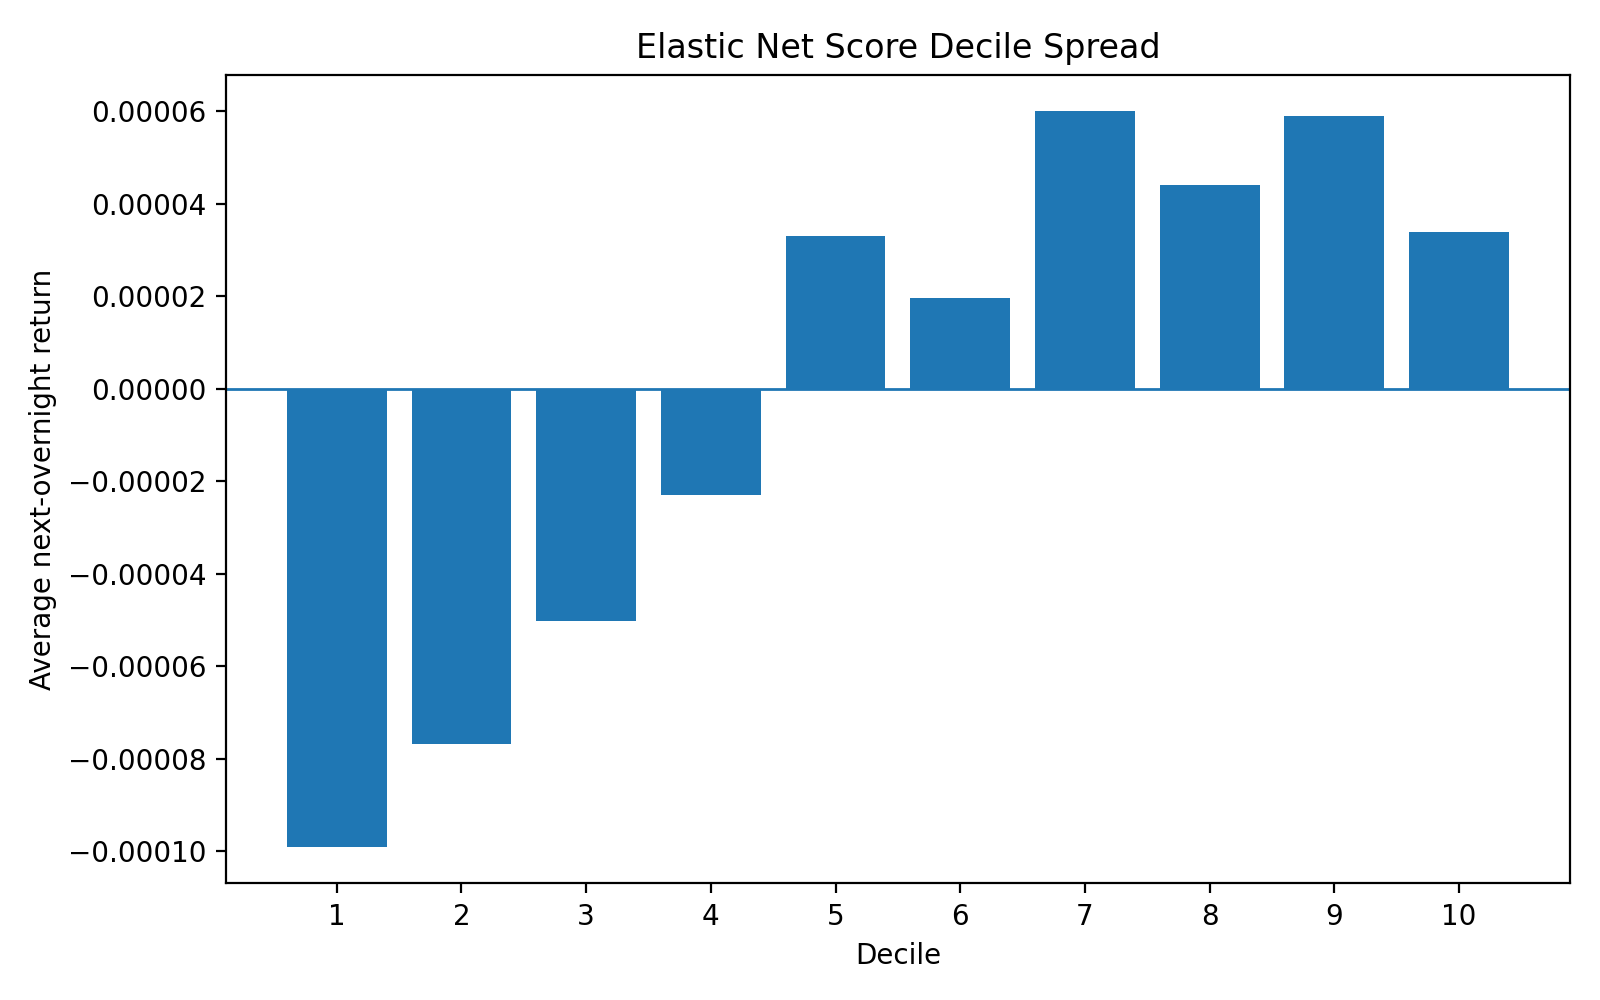
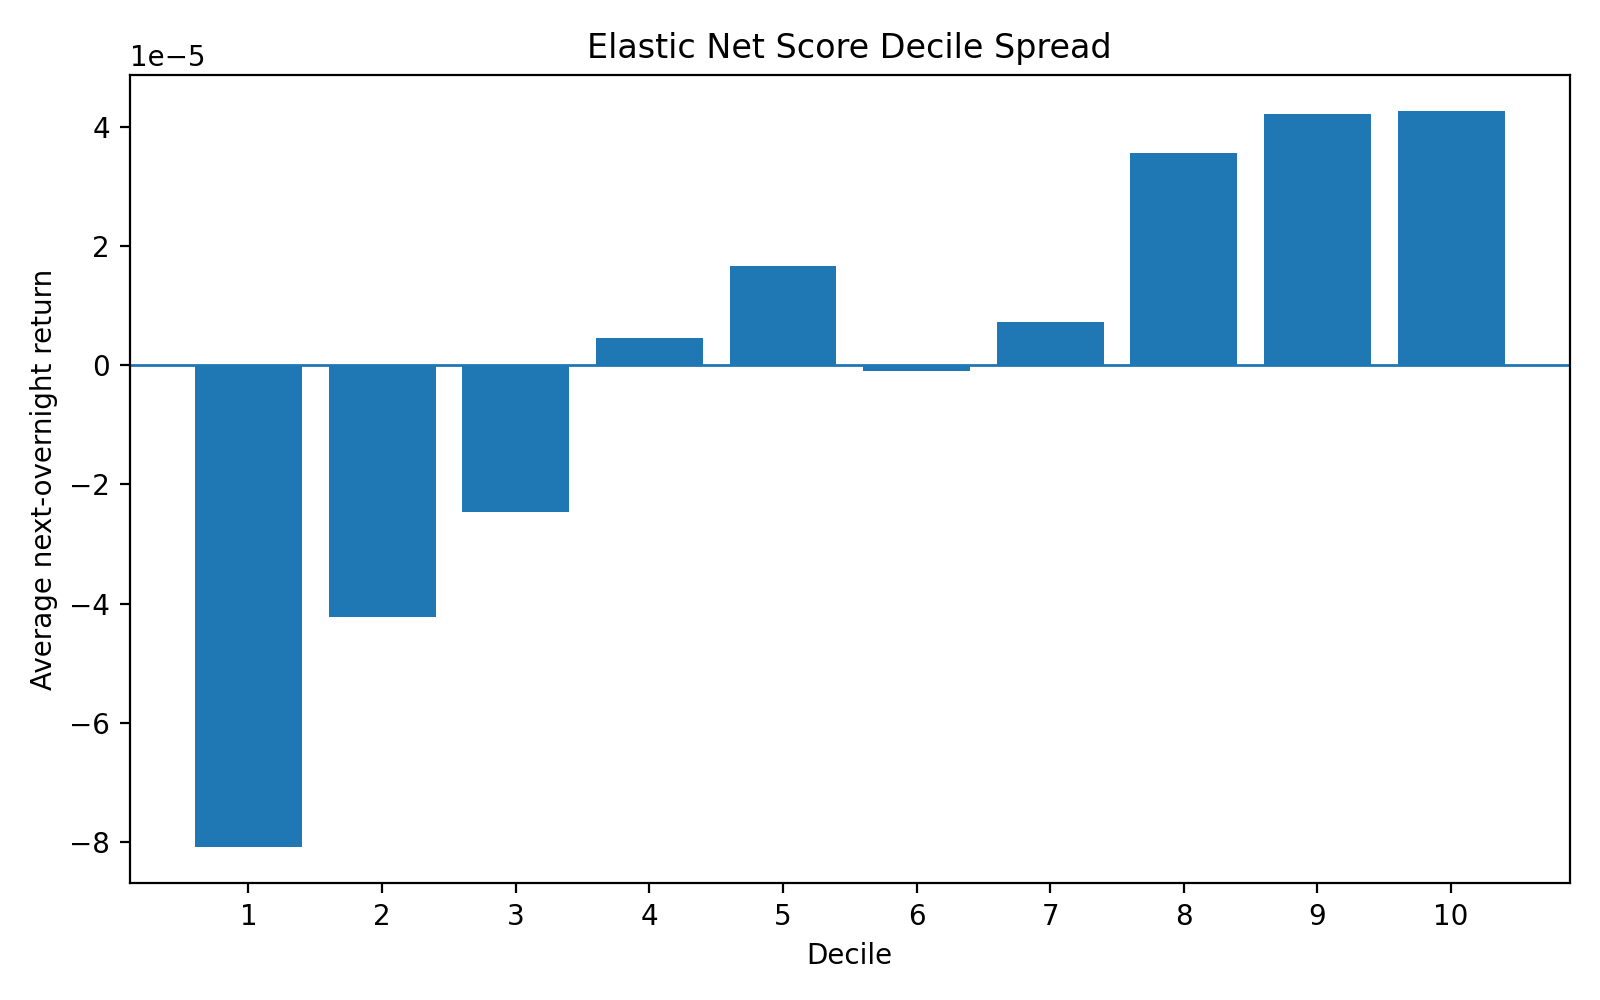
ablation and feature tuning

diff --git a/run_step4_ablation.py b/run_step4_ablation.py
@@ -1,0 +1,116 @@
+from pathlib import Path
+
+import pandas as pd
+
+from step4_alpha.model import expanding_window_elastic_net
+from step4_alpha.evaluation import ic_summary
+
+
+PROJECT_ROOT = Path(__file__).resolve().parent
+
+INPUT_PATH = PROJECT_ROOT / "outputs" / "alpha_scores.parquet"
+OUTPUT_DIR = PROJECT_ROOT / "step4_alpha" / "eval_output"
+OUTPUT_PATH = OUTPUT_DIR / "elastic_net_feature_ablation.csv"
+
+
+if __name__ == "__main__":
+    if not INPUT_PATH.exists():
+        raise FileNotFoundError(
+            "Missing outputs/alpha_scores.parquet. "
+            "Please run `python3 run_step4.py` first."
+        )
+
+    df = pd.read_parquet(INPUT_PATH)
+
+    all_features = [c for c in df.columns if c.startswith("z_feat_")]
+
+    return_features = [
+        "z_feat_r_cc_lag1",
+        "z_feat_r_id_lag1",
+    ]
+
+    risk_features = [
+        "z_feat_vol20_lag1",
+    ]
+
+    liquidity_size_features = [
+        "z_feat_log_adv20_lag1",
+        "z_feat_log_mcap_lag1",
+    ]
+
+    borrow_features = [
+        "z_feat_dsi_lag1",
+        "z_feat_dtcn_lag1",
+        "z_feat_ddtcn_lag1",
+        "z_feat_htb_flag_lag1",
+    ]
+
+    feature_sets = {
+        "elastic_net_all": all_features,
+        "elastic_net_no_return": [c for c in all_features if c not in return_features],
+        "elastic_net_no_risk": [c for c in all_features if c not in risk_features],
+        "elastic_net_no_liquidity_size": [
+            c for c in all_features if c not in liquidity_size_features
+        ],
+        "elastic_net_no_borrow": [c for c in all_features if c not in borrow_features],
+    }
+
+    result_rows = []
+
+    for variant_name, feature_cols in feature_sets.items():
+        print(f"\nRunning {variant_name}")
+        print("Features:", feature_cols)
+
+        df_pred = expanding_window_elastic_net(
+            df=df.copy(),
+            feature_cols=feature_cols,
+            target_col="target_winsorized_demeaned",
+            first_pred_year=2018,
+            last_pred_year=2024,
+            alpha=0.00001,
+            l1_ratio=0.5,
+        )
+
+        score_col = "score_elastic_net"
+        df_model = df_pred[df_pred[score_col].notna()].copy()
+        print(df_model["date"].dt.year.value_counts().sort_index())
+
+        ic = ic_summary(
+            df_model,
+            score_cols=[score_col],
+            target_col="target_winsorized_demeaned",
+        )
+
+        row = ic.iloc[0].to_dict()
+        row["variant"] = variant_name
+        row["n_features"] = len(feature_cols)
+        row["features"] = ", ".join(feature_cols)
+
+        result_rows.append(row)
+
+        daily_score_std = df_model.groupby("date")[score_col].std()
+
+        print("Non-constant days:", (daily_score_std > 0).sum())
+        print("Constant days:", (daily_score_std == 0).sum())
+        print("Min daily score std:", daily_score_std.min())
+        print("Median daily score std:", daily_score_std.median())
+
+    result = pd.DataFrame(result_rows)
+
+    result = result[
+        [
+            "variant",
+            "n_features",
+            "mean_ic",
+            "std_ic",
+            "t_stat",
+            "n_days",
+            "features",
+        ]
+    ].sort_values("mean_ic", ascending=False)
+
+    OUTPUT_DIR.mkdir(parents=True, exist_ok=True)
+    result.to_csv(OUTPUT_PATH, index=False)
+
+    print(f"\nSaved Elastic Net feature ablation to: {OUTPUT_PATH}")
+    print(result.to_string(index=False))

diff --git a/run_step4_random_forest_tuning.py b/run_step4_random_forest_tuning.py
@@ -1,0 +1,117 @@
+from pathlib import Path
+
+import pandas as pd
+
+from step4_alpha.model import expanding_window_random_forest
+from step4_alpha.evaluation import ic_summary
+
+
+PROJECT_ROOT = Path(__file__).resolve().parent
+
+INPUT_PATH = PROJECT_ROOT / "outputs" / "alpha_scores.parquet"
+OUTPUT_DIR = PROJECT_ROOT / "step4_alpha" / "eval_output"
+OUTPUT_PATH = OUTPUT_DIR / "random_forest_tuning.csv"
+
+
+if __name__ == "__main__":
+    if not INPUT_PATH.exists():
+        raise FileNotFoundError(
+            "Missing outputs/alpha_scores.parquet. "
+            "Please run `python3 run_step4.py` first."
+        )
+
+    df = pd.read_parquet(INPUT_PATH)
+
+    feature_cols = [c for c in df.columns if c.startswith("z_feat_")]
+
+    param_grid = [
+        {
+            "variant": "rf_depth5_leaf500",
+            "n_estimators": 100,
+            "max_depth": 5,
+            "min_samples_leaf": 500,
+            "max_features": "sqrt",
+        },
+        {
+            "variant": "rf_depth6_leaf300",
+            "n_estimators": 200,
+            "max_depth": 6,
+            "min_samples_leaf": 300,
+            "max_features": "sqrt",
+        },
+        {
+            "variant": "rf_depth8_leaf500",
+            "n_estimators": 200,
+            "max_depth": 8,
+            "min_samples_leaf": 500,
+            "max_features": "sqrt",
+        },
+        {
+            "variant": "rf_depth6_leaf1000",
+            "n_estimators": 200,
+            "max_depth": 6,
+            "min_samples_leaf": 1000,
+            "max_features": "sqrt",
+        },
+    ]
+
+    rows = []
+
+    for params in param_grid:
+        variant = params["variant"]
+
+        print(f"\nRunning {variant}")
+        print(params)
+
+        df_pred = expanding_window_random_forest(
+            df=df.copy(),
+            feature_cols=feature_cols,
+            target_col="target_winsorized_demeaned",
+            first_pred_year=2018,
+            last_pred_year=2024,
+            n_estimators=params["n_estimators"],
+            max_depth=params["max_depth"],
+            min_samples_leaf=params["min_samples_leaf"],
+            max_features=params["max_features"],
+        )
+
+        score_col = "score_random_forest"
+        df_model = df_pred[df_pred[score_col].notna()].copy()
+
+        ic = ic_summary(
+            df_model,
+            score_cols=[score_col],
+            target_col="target_winsorized_demeaned",
+        )
+
+        row = ic.iloc[0].to_dict()
+
+        row["variant"] = variant
+        row["n_estimators"] = params["n_estimators"]
+        row["max_depth"] = params["max_depth"]
+        row["min_samples_leaf"] = params["min_samples_leaf"]
+        row["max_features"] = params["max_features"]
+
+        rows.append(row)
+
+    result = pd.DataFrame(rows)
+
+    result = result[
+        [
+            "variant",
+            "n_estimators",
+            "max_depth",
+            "min_samples_leaf",
+            "max_features",
+            "mean_ic",
+            "std_ic",
+            "t_stat",
+            "n_days",
+        ]
+    ].sort_values("mean_ic", ascending=False)
+
+    OUTPUT_DIR.mkdir(parents=True, exist_ok=True)
+    result.to_csv(OUTPUT_PATH, index=False)
+
+    print(f"\nSaved Random Forest tuning results to: {OUTPUT_PATH}")
+    print(result.to_string(index=False))

diff --git a/run_step4.py b/run_step4.py
@@ -40,7 +40,7 @@ if __name__ == "__main__":
         target_col="target_winsorized_demeaned",
         first_pred_year=2018,
         last_pred_year=2024,
-        alpha=0.0001,
+        alpha=0.00001,
         l1_ratio=0.5,
     )
 
